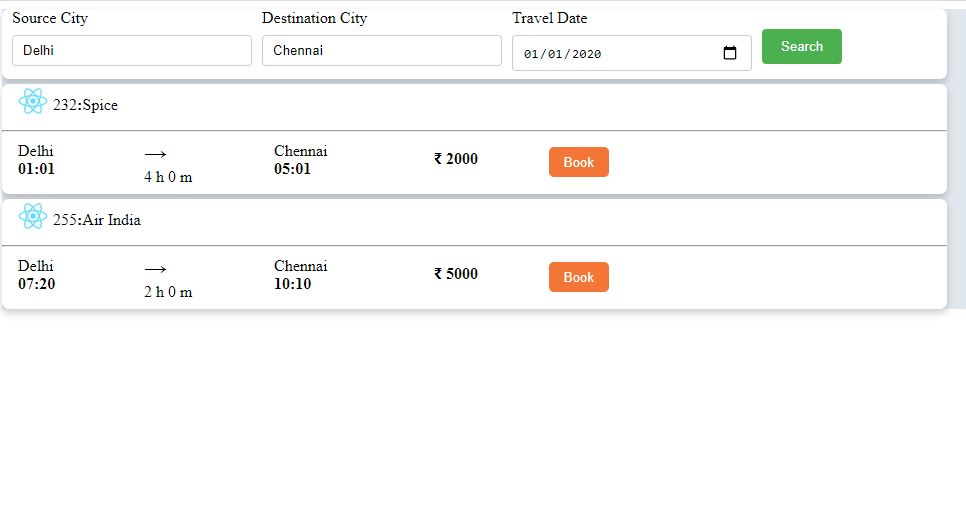
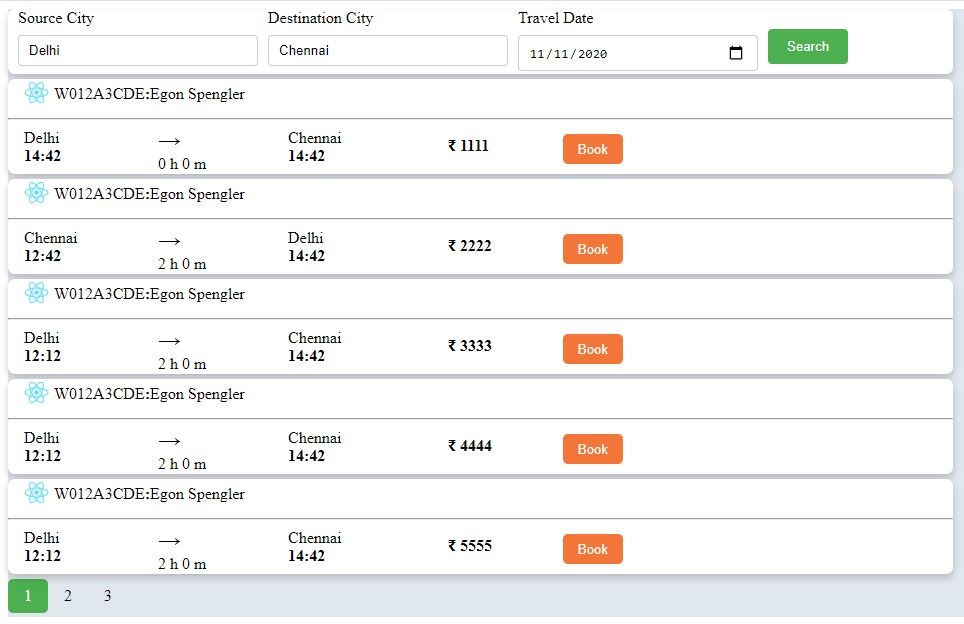
pagination added

Changed region(s): [[0.0, 0.0, 1.0, 1.0], [0.4357, 0.5, 0.529, 0.5588]]

diff --git a/src/components/Pagination.js b/src/components/Pagination.js
@@ -1,0 +1,47 @@
+import React from "react";
+import { connect } from "react-redux";
+import "../flightdetails.css";
+import { setSelectedPage } from "../actions";
+
+const Pagination = (props) => {
+  let totalPages;
+  let pageNumberArray;
+  if (props.totalFligths) {
+    totalPages = Math.ceil(props.totalFligths / props.itemsPerPage);
+    pageNumberArray = Array.from(Array(totalPages + 1).keys()).slice(1);
+  }
+  const handlePageClick = (pageNumber) => {
+    props.setSelectedPage(pageNumber);
+  };
+  if (!totalPages || totalPages <= 1) {
+    return null;
+  }
+
+  return (
+    <div className="pagination">
+      {pageNumberArray.map((pageNumber) => {
+        let selectedStyle = null;
+        if (props.selectedPage === pageNumber)
+          selectedStyle = "pageNumber active";
+        else selectedStyle = "pageNumber";
+
+        return (
+          <div
+            className={selectedStyle}
+            onClick={() => handlePageClick(pageNumber)}
+          >
+            {pageNumber}
+          </div>
+        );
+      })}
+    </div>
+  );
+};
+
+const mapStateToProps = ({ flightDetails, selectedPage, itemsPerPage }) => {
+  if (flightDetails)
+    return { totalFligths: flightDetails.length, selectedPage, itemsPerPage };
+  else return {};
+};
+
+export default connect(mapStateToProps, { setSelectedPage })(Pagination);

diff --git a/src/components/displayFlights.js b/src/components/displayFlights.js
@@ -1,11 +1,18 @@
 import React from "react";
 import "../flightdetails.css";
 import { connect } from "react-redux";
-import FlightItem from "./flightItems";
+import FlightItem from "./FlightItems";
+import { paginateGridRecords } from "../utils/utils";
 
-const DisplayFlights = ({ flightDetails }) => {
-  if (flightDetails && flightDetails.length > 0) {
-    return flightDetails.map((item) => {
+const DisplayFlights = ({ flightDetails, itemsPerPage, selectedPage }) => {
+  let newflightDetails = paginateGridRecords(
+    flightDetails,
+    selectedPage,
+    itemsPerPage
+  );
+  console.log(newflightDetails);
+  if (newflightDetails && newflightDetails.length > 0) {
+    return newflightDetails.map((item) => {
       return <FlightItem key={item.flightNumber} flightData={item} />;
     });
   } else {
@@ -17,8 +24,9 @@ const DisplayFlights = ({ flightDetails }) => {
   }
 };
 
-const mapStateToProps = ({ flightDetails }) => {
-  if (flightDetails) return { flightDetails };
+const mapStateToProps = ({ flightDetails, itemsPerPage, selectedPage }) => {
+  if (flightDetails)
+    return { flightDetails: [...flightDetails], itemsPerPage, selectedPage };
   else return {};
 };
 

diff --git a/src/flightdetails.css b/src/flightdetails.css
@@ -3,14 +3,14 @@
   transition: 0.3s;
   width: 70%;
   display: "flex";
-  height: 110px;
+  height: 95px;
   background-color: #fff;
   border-radius: 7px;
   margin-top: 5px;
 }
 
 .container {
-  padding: 2px 16px;
+  padding: 1px 16px;
 }
 
 .duration {
@@ -45,10 +45,10 @@
 }
 
 .searchContainer {
-  padding: 2px 2px;
+  padding: 1px 2px;
 }
 .search {
-  height: 70px;
+  height: 65px;
 }
 
 input[type="text"] {
@@ -91,4 +91,21 @@ input[type="submit"] {
   display: flex;
   align-items: center;
   justify-content: center;
+}
+.pagination {
+  display: inline-block;
+}
+
+.pageNumber {
+  color: black;
+  float: left;
+  padding: 8px 16px;
+  text-decoration: none;
+  cursor: pointer;
+}
+
+.active {
+  background-color: #4caf50;
+  color: white;
+  border-radius: 5px;
 }

diff --git a/src/components/search.js b/src/components/search.js
@@ -1,6 +1,6 @@
 import React from "react";
 import "../flightdetails.css";
-import getFlightDetails from "../actions";
+import { getFlightDetails, setSelectedPage } from "../actions";
 import { connect } from "react-redux";
 
 class Search extends React.Component {
@@ -13,6 +13,7 @@ class Search extends React.Component {
       destinationCity: data.get("destination_city"),
       travelDate: data.get("travel_date"),
     });
+    this.props.setSelectedPage(1);
   };
 
   render() {
@@ -55,4 +56,6 @@ const mapStateToProps = (state) => {
   return { ...state };
 };
 
-export default connect(mapStateToProps, { getFlightDetails })(Search);
+export default connect(mapStateToProps, { getFlightDetails, setSelectedPage })(
+  Search
+);

diff --git a/src/App.js b/src/App.js
@@ -1,6 +1,7 @@
 import React from "react";
-import Search from "./components/search";
-import DisplayFlights from "./components/displayFlights";
+import Search from "./components/Search";
+import DisplayFlights from "./components/DisplayFlights";
+import Pagination from "./components/Pagination";
 
 class App extends React.Component {
   render() {
@@ -13,7 +14,10 @@ class App extends React.Component {
         }}
       >
         <Search />
-        <DisplayFlights />
+        <div style={{ position: "relative", height: "500px" }}>
+          <DisplayFlights />
+        </div>
+        <Pagination />
       </div>
     );
   }

diff --git a/src/reducers/index.js b/src/reducers/index.js
@@ -1,13 +1,24 @@
 import { combineReducers } from "redux";
 
 const flightDetails = (flightDetails = null, action) => {
-  console.log(action.payload);
   if (action.type === "GET_FLIGHT_DETAILS") {
     return action.payload;
   }
   return flightDetails;
 };
 
+const selectedPage = (selectedPage = 1, action) => {
+  if (action.type === "SET_SELECTED") {
+    return action.payload;
+  }
+  return selectedPage;
+};
+const itemsPerPage = () => {
+  return 5;
+};
+
 export default combineReducers({
   flightDetails,
+  selectedPage,
+  itemsPerPage,
 });

diff --git a/src/actions/index.js b/src/actions/index.js
@@ -1,8 +1,13 @@
 import axios from "../api/axios";
 
-const getFlightDetails = (searchData) => async (dispatch) => {
-  let { data } = await axios.post("/flightDetails", searchData);
+export const getFlightDetails = (searchData) => async (dispatch) => {
+  let { data } = await axios.get("/flightDetails", searchData);
   dispatch({ type: "GET_FLIGHT_DETAILS", payload: data });
 };
 
-export default getFlightDetails;
+export const setSelectedPage = (selectedPage) => {
+  return {
+    type: "SET_SELECTED",
+    payload: selectedPage,
+  };
+};

diff --git a/src/components/flightItems.js b/src/components/flightItems.js
@@ -24,7 +24,7 @@ const FlightItem = ({ flightData }) => {
   return (
     <div className="card">
       <div className="container">
-        <img src="logo192.png" alt="img" width="30" height="30" />
+        <img src="logo192.png" alt="img" width="25" height="25" />
         <label style={{ verticalAlign: "super", paddingLeft: "5px" }}>
           {flightNumber}
           <b>:</b>

diff --git a/src/utils/utils.js b/src/utils/utils.js
@@ -1,0 +1,7 @@
+export function paginateGridRecords(flightList, selectedpage, perPage) {
+  if (flightList) {
+    let startIndex = (selectedpage - 1) * perPage;
+    return flightList.splice(startIndex, perPage);
+  }
+  return [];
+}
